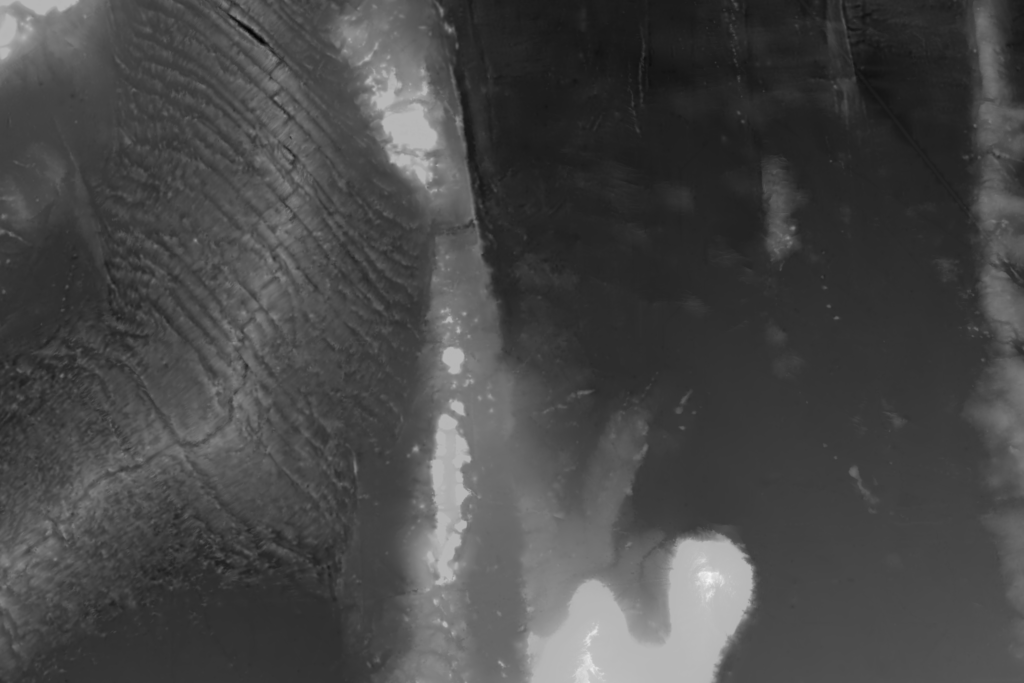
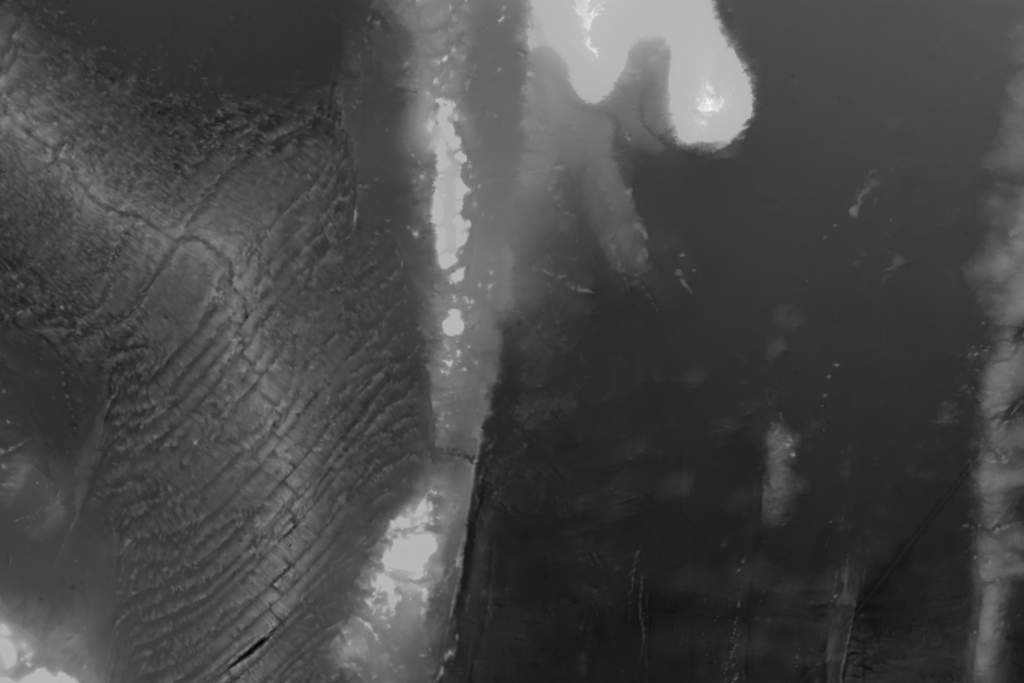
fix(map): invert GEBCO assets vertically to align cartographic North with OSCAR grid

diff --git a/scripts/build-relief.py b/scripts/build-relief.py
@@ -33,8 +33,11 @@ def main():
     os.makedirs('build', exist_ok=True)
 
     # 1. Optimize Color Relief Texture (2048 px wide)
+    # The source GEBCO arrays start at -10°S (index 0) and end at +10°N.
+    # In standard cartographic display, North is top. Flipping vertically aligns
+    # Row 0 with North (+10°N), matching Three.js UV (v=1 at top), coastlines, and OSCAR currents.
     color_src = 'data/bathymetry-color.webp'
-    color_img = Image.open(color_src)
+    color_img = Image.open(color_src).transpose(Image.Transpose.FLIP_TOP_BOTTOM)
     orig_w, orig_h = color_img.size
     target_w = 2048
     target_h = int(round(target_w * (orig_h / orig_w))) # 1365 px
@@ -48,7 +51,7 @@ def main():
 
     # 2. Optimize Height Texture (1024 px wide, 8-bit PNG)
     height_src = 'data/bathymetry-height.png'
-    height_img = Image.open(height_src)
+    height_img = Image.open(height_src).transpose(Image.Transpose.FLIP_TOP_BOTTOM)
     h_w = 1024
     h_h = int(round(h_w * (orig_h / orig_w))) # 683 px
 
@@ -65,7 +68,11 @@ def main():
 
     # 3. Optimize Normal Map Texture (1024 px wide WebP)
     normal_src = 'data/bathymetry-normal.png'
-    normal_img = Image.open(normal_src)
+    normal_img = Image.open(normal_src).transpose(Image.Transpose.FLIP_TOP_BOTTOM)
+    # Invert green channel for tangent space normal map after vertical flip
+    normal_arr = np.array(normal_img)
+    normal_arr[:, :, 1] = 255 - normal_arr[:, :, 1]
+    normal_img = Image.fromarray(normal_arr)
     print(f"Downsampling normal map: ({orig_w}x{orig_h}) -> ({h_w}x{h_h})...")
     normal_resized = normal_img.resize((h_w, h_h), Image.Resampling.BILINEAR)
     normal_out = 'public/data/normal-1024.webp'
@@ -134,3 +141,4 @@ def main():
 
 if __name__ == '__main__':
     main()
+
